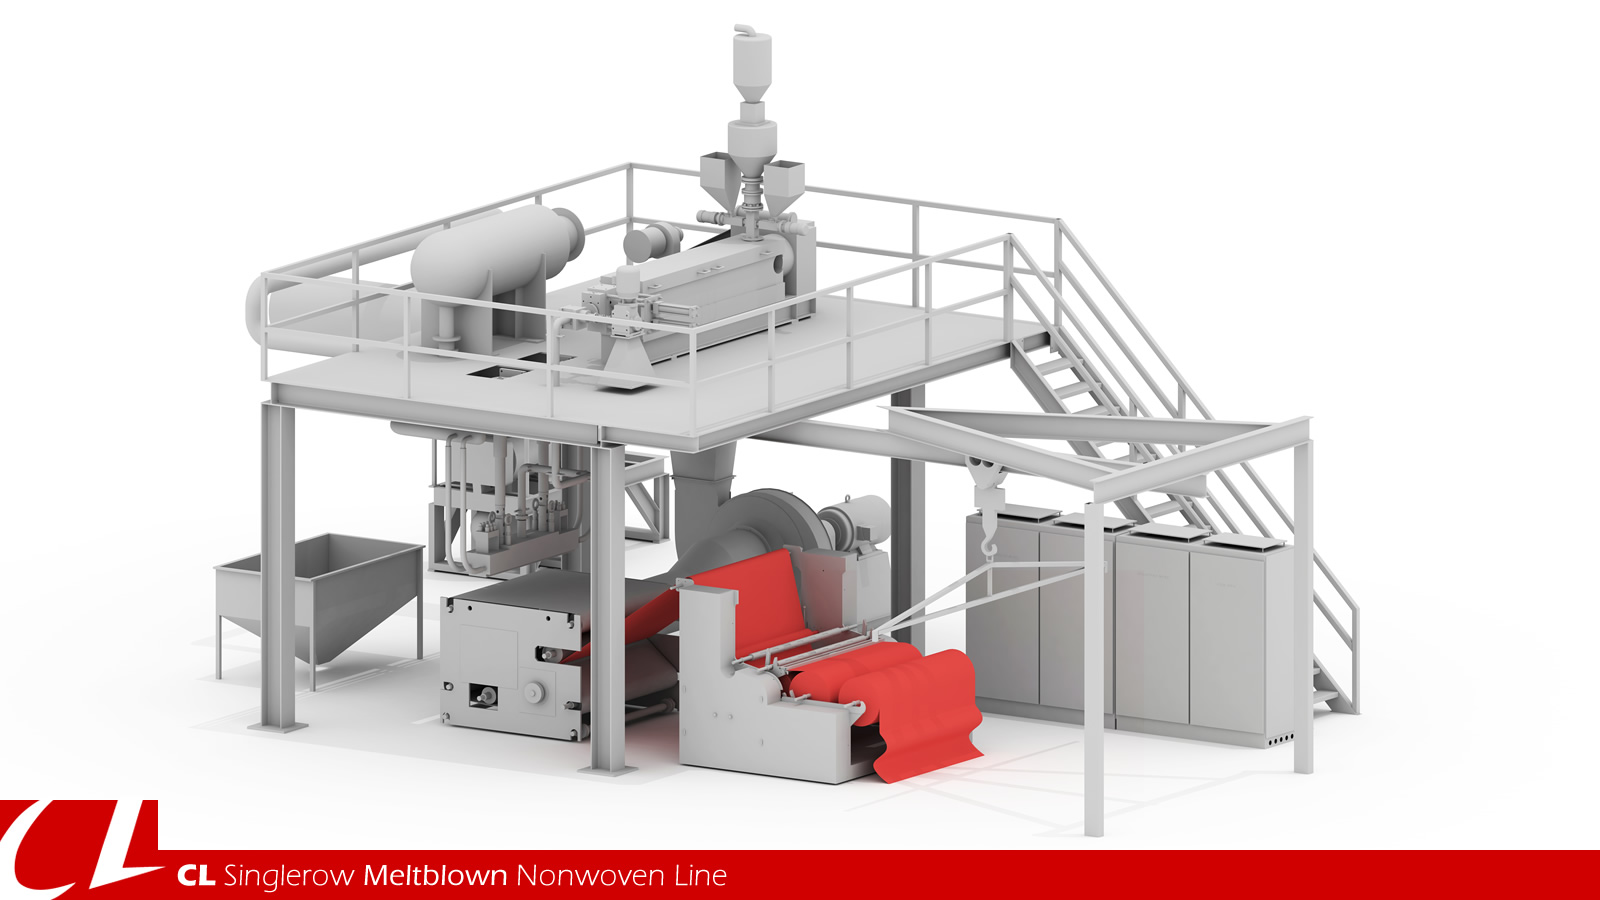
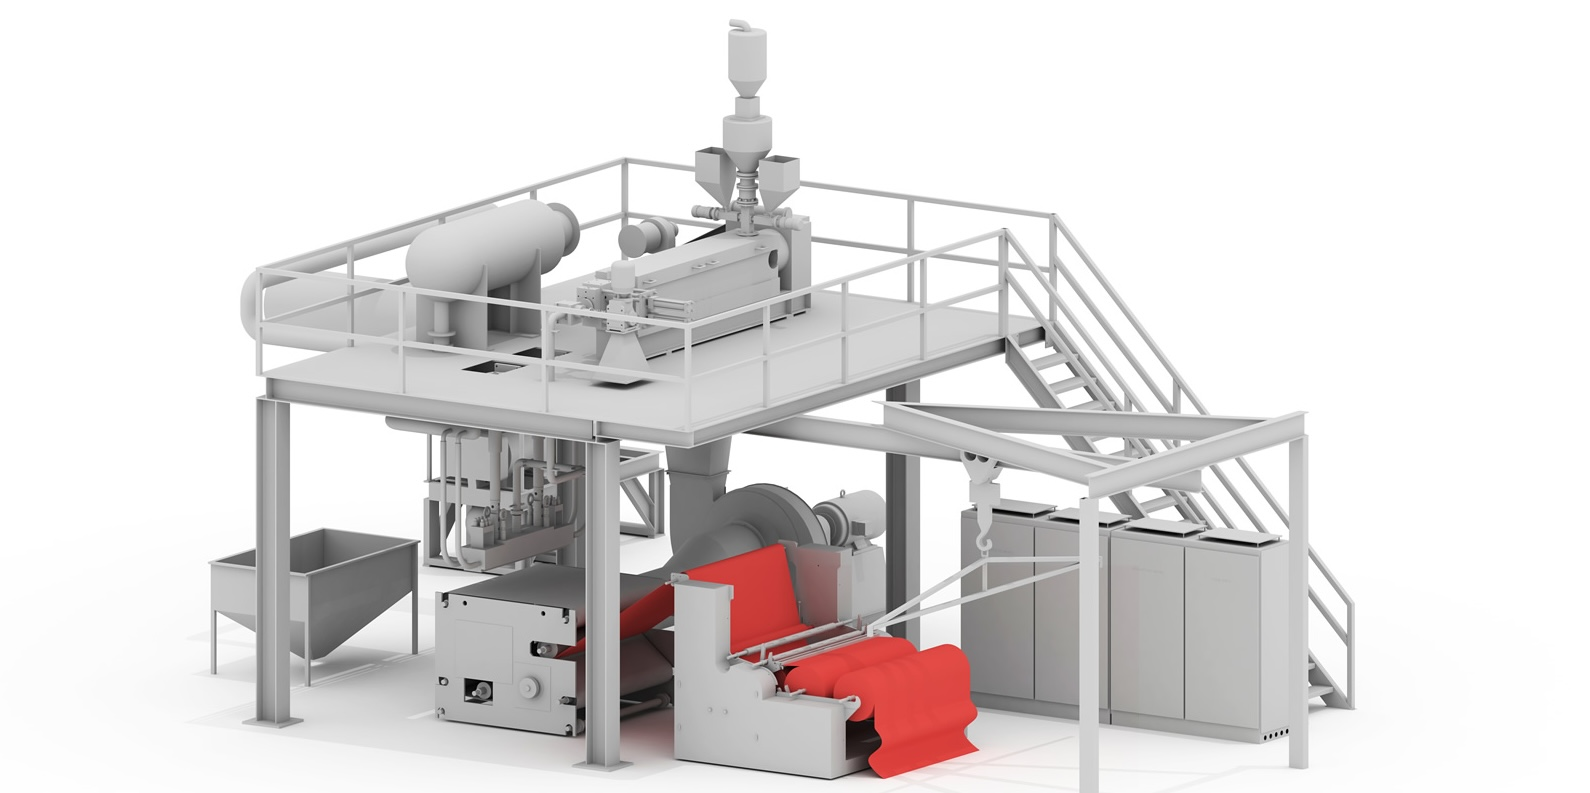
UI Feature: Injected animated SVG line routing and pulsing energy nodes directly over the factory simulation image

diff --git a/src/tabs/Simulation.jsx b/src/tabs/Simulation.jsx
@@ -4,43 +4,31 @@ const Simulation = () => {
   const [activeStep, setActiveStep] = useState(0);
   const [isPlaying, setIsPlaying] = useState(false);
 
+  // STEP VISUALIZATION COORDINATES
+  // Adjust these X (left-to-right) and Y (top-to-bottom) percentages (0-100) 
+  // to perfectly align the glowing nodes to your specific M1600.jpg layout.
+  const flowPoints = [
+    { x: 49, y: 12 }, // 1. Hopper (Top)
+    { x: 38, y: 30 }, // 2. Extruder (Moving down/left)
+    { x: 36, y: 38 }, // 3. Filter
+    { x: 36, y: 45 }, // 4. Metering Pump
+    { x: 36, y: 55 }, // 5. Die Head (Dropping vertically)
+    { x: 36, y: 68 }, // 6. Quenching Chamber (Dropping vertically)
+    { x: 45, y: 75 }, // 7. Web Forming Belt (Moving right)
+    { x: 55, y: 75 }, // 8. Thermal Bonding Calenders
+    { x: 68, y: 82 }  // 9. Final Winder
+  ];
+
   const processSteps = [
-    { 
-      title: "Raw Material Feeding", 
-      desc: "Feeding of the PP raw material into the hopper and transferring it to the mixer." 
-    },
-    { 
-      title: "Melting & Extrusion", 
-      desc: "The PP moves from the mixer into the extruder, passing through 7 distinct heating zones to achieve a complete melt." 
-    },
-    { 
-      title: "Filtration", 
-      desc: "The melted PP passes through the candle filter assembly to eliminate any impurities." 
-    },
-    { 
-      title: "Precision Dosing", 
-      desc: "The metering pump pushes and manipulates the filtered melted PP in precise amounts to ensure consistent flow." 
-    },
-    { 
-      title: "Filament Extrusion", 
-      desc: "The melted PP is evenly distributed over the die head and extruded in the form of filaments through 21,000 holes of 0.4mm diameter." 
-    },
-    { 
-      title: "Quenching & Stretching", 
-      desc: "Filaments are stretched using a suction pump and simultaneously cooled with air coming in evenly through a honeycomb structure." 
-    },
-    { 
-      title: "Web Forming", 
-      desc: "The stretched filaments are evenly distributed and laid over the continuous moving belt to form the web." 
-    },
-    { 
-      title: "Thermal Bonding", 
-      desc: "The web is transferred under heated calendars, applying precise pressure and heat to bond the filaments with a diamond pattern." 
-    },
-    { 
-      title: "Winding", 
-      desc: "The bonded filaments, which are now in the form of fabric, are finally wound into a roll form with the help of the winder." 
-    }
+    { title: "Raw Material Feeding", desc: "Feeding of the PP raw material into the hopper and transferring it to the mixer." },
+    { title: "Melting & Extrusion", desc: "The PP moves from the mixer into the extruder, passing through 7 distinct heating zones to achieve a complete melt." },
+    { title: "Filtration", desc: "The melted PP passes through the candle filter assembly to eliminate any impurities." },
+    { title: "Precision Dosing", desc: "The metering pump pushes and manipulates the filtered melted PP in precise amounts to ensure consistent flow." },
+    { title: "Filament Extrusion", desc: "The melted PP is evenly distributed over the die head and extruded in the form of filaments through 21,000 holes of 0.4mm diameter." },
+    { title: "Quenching & Stretching", desc: "Filaments are stretched using a suction pump and simultaneously cooled with air coming in evenly through a honeycomb structure." },
+    { title: "Web Forming", desc: "The stretched filaments are evenly distributed and laid over the continuous moving belt to form the web." },
+    { title: "Thermal Bonding", desc: "The web is transferred under heated calendars, applying precise pressure and heat to bond the filaments with a diamond pattern." },
+    { title: "Winding", desc: "The bonded filaments, which are now in the form of fabric, are finally wound into a roll form with the help of the winder." }
   ];
 
   useEffect(() => {
@@ -64,41 +52,113 @@ const Simulation = () => {
     setActiveStep(0);
   };
 
+  // Helper to generate the exact SVG path up to the current active step
+  const getActivePath = () => {
+    const activePoints = flowPoints.slice(0, activeStep + 1);
+    if (activePoints.length === 0) return "";
+    return `M ${activePoints.map(p => `${p.x} ${p.y}`).join(' L ')}`;
+  };
+
   return (
     <div style={{ maxWidth: '1200px', margin: '40px auto', padding: '0 20px' }}>
+      
+      {/* CSS Animation Injection for Flowing Material Effect */}
+      <style>{`
+        @keyframes flowDash {
+          from { stroke-dashoffset: 20; }
+          to { stroke-dashoffset: 0; }
+        }
+        @keyframes nodePulse {
+          0% { transform: scale(1); opacity: 0.8; }
+          50% { transform: scale(2.5); opacity: 0; }
+          100% { transform: scale(1); opacity: 0; }
+        }
+      `}</style>
+
       <section style={{ marginBottom: '60px', paddingBottom: '30px', borderBottom: '1px solid rgba(226, 232, 240, 0.8)' }}>
-        <div style={{ textAlign: 'center', marginBottom: '35px', backgroundColor: 'rgba(255,255,255,0.9)', padding: '30px', borderRadius: '16px', boxShadow: '0 10px 25px -5px rgba(0,0,0,0.05)' }}>
-          <h1 style={{ fontSize: '32px', fontWeight: '800', color: '#0f172a', marginBottom: '15px' }}>3.2m PP Spunbond Line Simulation</h1>
-          <p style={{ color: '#475569', fontSize: '16px' }}>Interactive process visualization from raw material feeding to final fabric winding.</p>
+        <div style={{ textAlign: 'center', marginBottom: '35px', backgroundColor: 'rgba(255,255,255,0.95)', padding: '30px', borderRadius: '16px', boxShadow: '0 10px 25px -5px rgba(0,0,0,0.05)', backdropFilter: 'blur(10px)' }}>
+          <h1 style={{ fontSize: 'clamp(26px, 4vw, 32px)', fontWeight: '800', color: '#0f172a', marginBottom: '15px' }}>3.2m PP Spunbond Line Simulation</h1>
+          <p style={{ color: '#475569', fontSize: '16px' }}>Interactive process visualization tracking material flow from raw feeding to final fabric winding.</p>
         </div>
 
         <div style={{ display: 'grid', gridTemplateColumns: 'repeat(auto-fit, minmax(320px, 1fr))', gap: '40px', alignItems: 'flex-start' }}>
           
-          {/* Left Side: 3D Model Image */}
+          {/* Left Side: 3D Model Image with Flow Overlay */}
           <div style={{ position: 'sticky', top: '120px', backgroundColor: 'rgba(255,255,255,0.95)', padding: '20px', borderRadius: '16px', border: '1px solid rgba(226, 232, 240, 0.8)', boxShadow: '0 10px 25px -5px rgba(0,0,0,0.05)', backdropFilter: 'blur(10px)' }}>
-            <div style={{ borderRadius: '12px', overflow: 'hidden', backgroundColor: '#f1f5f9', position: 'relative' }}>
+            <div style={{ borderRadius: '12px', overflow: 'hidden', backgroundColor: '#e2e8f0', position: 'relative' }}>
+              
               <img 
                 src="/M1600.jpg" 
                 alt="3.2m PP Spunbond Manufacturing Line 3D Model" 
-                style={{ width: '100%', height: 'auto', display: 'block' }} 
+                style={{ width: '100%', height: 'auto', display: 'block', filter: 'brightness(0.9)' }} 
               />
-              {/* Active Step Indicator Overlay */}
-              <div style={{ position: 'absolute', top: '20px', left: '20px', backgroundColor: '#2563eb', color: '#ffffff', padding: '8px 16px', borderRadius: '20px', fontWeight: '700', fontSize: '14px', boxShadow: '0 4px 6px rgba(0,0,0,0.1)' }}>
-                Stage {activeStep + 1} / 9
+              
+              {/* SVG Overlay: Flowing Material Lines */}
+              <svg 
+                viewBox="0 0 100 100" 
+                preserveAspectRatio="none" 
+                style={{ position: 'absolute', top: 0, left: 0, width: '100%', height: '100%', pointerEvents: 'none', zIndex: 10 }}
+              >
+                {/* Background Track Path */}
+                <path 
+                  d={`M ${flowPoints.map(p => `${p.x} ${p.y}`).join(' L ')}`} 
+                  fill="none" 
+                  stroke="rgba(255, 255, 255, 0.3)" 
+                  strokeWidth="0.5" 
+                  strokeLinecap="round" 
+                  strokeLinejoin="round" 
+                />
+                
+                {/* Active Flowing Material Path */}
+                <path 
+                  d={getActivePath()} 
+                  fill="none" 
+                  stroke="#38bdf8" 
+                  strokeWidth="1.2" 
+                  strokeLinecap="round" 
+                  strokeLinejoin="round"
+                  strokeDasharray="2, 2"
+                  style={{ animation: 'flowDash 1s linear infinite' }}
+                />
+
+                {/* Active Node Pulsing Effect */}
+                {flowPoints.map((point, index) => (
+                  index === activeStep && (
+                    <g key={`node-${index}`}>
+                      {/* Core Dot */}
+                      <circle cx={point.x} cy={point.y} r="1.5" fill="#e11d48" />
+                      {/* Radar Pulse Effect */}
+                      <circle 
+                        cx={point.x} 
+                        cy={point.y} 
+                        r="1.5" 
+                        fill="none" 
+                        stroke="#e11d48" 
+                        strokeWidth="0.5"
+                        style={{ transformOrigin: `${point.x}px ${point.y}px`, animation: 'nodePulse 1.5s ease-out infinite' }} 
+                      />
+                    </g>
+                  )
+                ))}
+              </svg>
+
+              {/* Status Overlay */}
+              <div style={{ position: 'absolute', top: '20px', left: '20px', backgroundColor: 'rgba(15, 23, 42, 0.85)', color: '#ffffff', padding: '8px 16px', borderRadius: '20px', fontWeight: '700', fontSize: '13px', backdropFilter: 'blur(4px)', border: '1px solid rgba(255,255,255,0.1)', zIndex: 20 }}>
+                <span style={{ color: '#38bdf8', marginRight: '6px' }}>●</span> Stage {activeStep + 1} / 9
               </div>
             </div>
             
-            {/* Simulation Controls */}
+            {/* Controls */}
             <div style={{ display: 'flex', gap: '15px', marginTop: '20px', justifyContent: 'center' }}>
               <button 
                 onClick={() => setIsPlaying(!isPlaying)}
-                style={{ backgroundColor: isPlaying ? '#e11d48' : '#16a34a', color: '#ffffff', border: 'none', padding: '10px 24px', borderRadius: '8px', fontWeight: '600', cursor: 'pointer', fontSize: '15px', transition: 'background-color 0.2s', display: 'flex', alignItems: 'center', gap: '8px' }}
+                style={{ backgroundColor: isPlaying ? '#e11d48' : '#2563eb', color: '#ffffff', border: 'none', padding: '12px 24px', borderRadius: '8px', fontWeight: '700', cursor: 'pointer', fontSize: '14px', transition: 'all 0.2s', display: 'flex', alignItems: 'center', gap: '8px', boxShadow: '0 4px 6px rgba(37, 99, 235, 0.2)' }}
               >
-                {isPlaying ? '⏸ Pause Simulation' : '▶ Play Simulation'}
+                {isPlaying ? '⏸ Pause System' : '▶ Run Simulation'}
               </button>
               <button 
                 onClick={handleReset}
-                style={{ backgroundColor: '#64748b', color: '#ffffff', border: 'none', padding: '10px 24px', borderRadius: '8px', fontWeight: '600', cursor: 'pointer', fontSize: '15px', transition: 'background-color 0.2s' }}
+                style={{ backgroundColor: '#f1f5f9', color: '#475569', border: '1px solid #cbd5e1', padding: '12px 24px', borderRadius: '8px', fontWeight: '700', cursor: 'pointer', fontSize: '14px', transition: 'all 0.2s' }}
               >
                 Reset
               </button>
@@ -129,23 +189,24 @@ const Simulation = () => {
                         width: '32px', 
                         height: '32px', 
                         borderRadius: '50%', 
-                        backgroundColor: isActive ? '#2563eb' : (isPast ? '#16a34a' : '#cbd5e1'), 
+                        backgroundColor: isActive ? '#38bdf8' : (isPast ? '#2563eb' : '#cbd5e1'), 
                         color: '#ffffff', 
                         display: 'flex', 
                         alignItems: 'center', 
                         justifyContent: 'center', 
                         fontWeight: '700',
                         fontSize: '14px',
-                        transition: 'background-color 0.3s ease'
+                        transition: 'background-color 0.3s ease',
+                        boxShadow: isActive ? '0 0 10px rgba(56, 189, 248, 0.5)' : 'none'
                       }}>
                         {index + 1}
                       </div>
                       {index !== processSteps.length - 1 && (
-                        <div style={{ width: '2px', height: '100%', backgroundColor: isPast ? '#16a34a' : '#e2e8f0', minHeight: '40px', marginTop: '8px' }}></div>
+                        <div style={{ width: '2px', height: '100%', backgroundColor: isPast ? '#2563eb' : '#e2e8f0', minHeight: '40px', marginTop: '8px', transition: 'background-color 0.3s' }}></div>
                       )}
                     </div>
                     <div style={{ paddingBottom: '20px' }}>
-                      <h3 style={{ margin: '0 0 8px 0', fontSize: '18px', fontWeight: '700', color: isActive ? '#2563eb' : '#0f172a', transition: 'color 0.3s ease' }}>
+                      <h3 style={{ margin: '0 0 8px 0', fontSize: '18px', fontWeight: '700', color: isActive ? '#0f172a' : '#334155', transition: 'color 0.3s ease' }}>
                         {step.title}
                       </h3>
                       <p style={{ margin: 0, color: '#475569', fontSize: '14px', lineHeight: '1.6' }}>